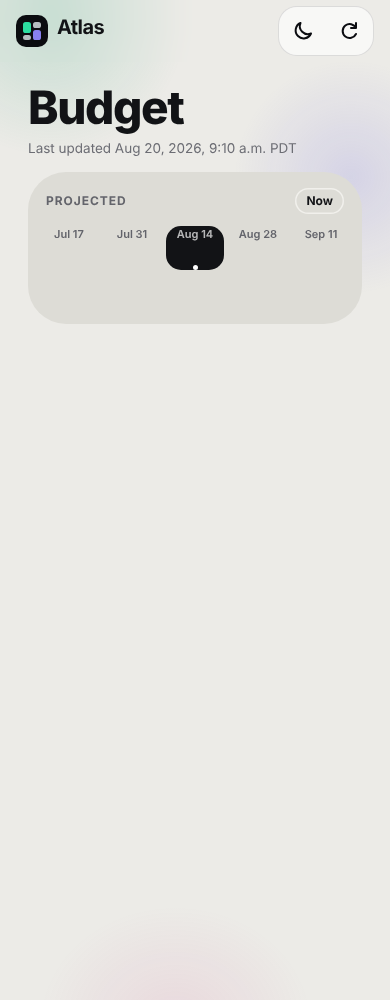
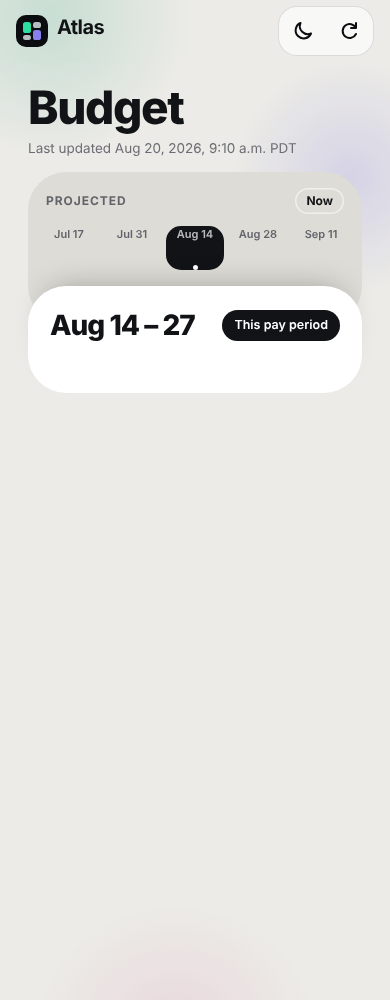
B1: contract additions (block stylesheets, period header, sheet overlay)
Per the lead's contract additions: each block owns a stylesheet
(stack-waterfall.css, stack-cards.css, stack-credit.css, stack-sheet.css,
placeholders loaded only under ?view=stack); the shell supplies the
selected period's range and when-label in the waterfall's white frame;
mount order timeline, waterfall, cards, credit in the pile, with the sheet
overlay outside it. The selected chip is re-centred once the stylesheets
have loaded.

Claude-Session: https://claude.ai/code/session_01B4JZczKoMaQZEssfxJayKS

Changed region(s): [[0.0923, 0.279, 0.9231, 0.341]]

diff --git a/public/stack/stack-shell.js b/public/stack/stack-shell.js
@@ -35,10 +35,12 @@
 
   const root = document.documentElement;
   root.classList.add('stack-view');
-  for (const href of ['/budget-stack-fonts.css', '/stack/stack.css']) {
+  // The shell's stylesheet (tokens, pile, header, timeline), then one stylesheet per block, each owned by its block.
+  for (const href of ['/budget-stack-fonts.css', '/stack/stack.css', ...ORDER.map(name => `/stack/stack-${name}.css`)]) {
     const link = document.createElement('link');
     link.rel = 'stylesheet';
     link.href = href;
+    if (href === '/stack/stack.css') link.addEventListener('load', () => centreNow());
     document.head.appendChild(link);
   }
 
@@ -90,6 +92,30 @@
       + `<div class="stack-chips" data-stack-chips>${chips}</div>`;
   }
 
+  // The selected period's range and when-label (design: "This pay period", "Last pay period", "Past", "Projected").
+  const rangeDate = new Intl.DateTimeFormat('en-CA', { month: 'short', day: 'numeric', timeZone: 'UTC' });
+  function rangeLabel(view) {
+    const ok = iso => typeof iso === 'string' && /^\d{4}-\d{2}-\d{2}$/.test(iso);
+    if (!ok(view.start)) return '';
+    const a = new Date(`${view.start}T12:00:00Z`);
+    if (!ok(view.end)) return rangeDate.format(a);
+    const b = new Date(`${view.end}T12:00:00Z`);
+    return rangeDate.format(a) + ' \u2013 ' + (a.getUTCMonth() === b.getUTCMonth() && a.getUTCFullYear() === b.getUTCFullYear()
+      ? String(b.getUTCDate()) : rangeDate.format(b));
+  }
+  function whenLabel(view, list) {
+    if (view.role === 'active') return 'This pay period';
+    const at = list.indexOf(view), now = list.findIndex(v => v.role === 'active');
+    if (view.role === 'lookback') return now > 0 && at === now - 1 ? 'Last pay period' : 'Past';
+    return 'Projected';
+  }
+  function periodHeadHtml() {
+    const list = views(), view = list.find(v => keyOf(v) === state.selectedPeriodKey);
+    if (!view) return '';
+    return `<h2 class="stack-period-range">${esc(rangeLabel(view))}</h2>`
+      + `<span class="stack-period-when" data-stack-period-when>${esc(whenLabel(view, list))}</span>`;
+  }
+
   function context() {
     return { data: state.data, plan: state.data && state.data.plan, recommendation: state.recommendation,
       selectedPeriodKey: state.selectedPeriodKey, Forecast: typeof Forecast !== 'undefined' ? Forecast : null };
@@ -104,7 +130,14 @@
     el.innerHTML = '<header class="stack-top"><h1>Budget</h1><p class="stack-updated" data-stack-updated></p></header>'
       + '<div class="stack-pile" data-stack-pile><section class="stack-block stack-tl" data-stack-block="timeline"'
       + ' aria-label="Pay periods"></section>'
-      + ORDER.map(name => `<section class="stack-block" data-stack-block="${name}"></section>`).join('') + '</div>';
+      // The waterfall sits under the shell's period header (range and when-label) in one white block; the block
+      // renders only its own content into the div. Cards and credit render into their own sections.
+      + '<section class="stack-block stack-wf-block"><header class="stack-period-head" data-stack-period-head></header>'
+      + '<div data-stack-block="waterfall"></div></section>'
+      + '<section class="stack-block stack-bare" data-stack-block="cards"></section>'
+      + '<section class="stack-block stack-bare" data-stack-block="credit"></section></div>'
+      // The sheet is an overlay, outside the pile.
+      + '<div class="stack-overlay" data-stack-block="sheet"></div>';
     (document.querySelector('.wrap') || document.body).appendChild(el);
     el.addEventListener('click', event => {
       const chip = event.target.closest('[data-stack-period]');
@@ -122,14 +155,21 @@
   }
 
   // Keep the chip row where it was across renders; centre the selected chip the first time and after a tap.
+  // Layout positions, not figures: the chip's offset in the row. Re-run once the stylesheets have loaded, since a
+  // render before then measures an unstyled row.
   let centre = true;
+  function centreNow() {
+    const row = document.querySelector('#stack-root [data-stack-chips]');
+    const chip = row && row.querySelector('[aria-pressed="true"]');
+    if (row && chip) row.scrollLeft = chip.offsetLeft - (row.clientWidth - chip.offsetWidth) / 2;
+  }
   function centerSelected(row, scrollLeft) {
     if (!row) return;
     if (scrollLeft != null) row.scrollLeft = scrollLeft;
-    const chip = row.querySelector('[aria-pressed="true"]');
-    if (!centre || !chip) return;
+    if (!centre) return;
     centre = false;
-    row.scrollLeft = chip.offsetLeft - (row.clientWidth - chip.offsetWidth) / 2;
+    centreNow();
+    if (typeof requestAnimationFrame === 'function') requestAnimationFrame(centreNow);
   }
 
   function renderAll() {
@@ -140,6 +180,7 @@
     const scrollLeft = previous ? previous.scrollLeft : null;
     timeline.innerHTML = timelineHtml();
     centerSelected(timeline.querySelector('[data-stack-chips]'), scrollLeft);
+    el.querySelector('[data-stack-period-head]').innerHTML = periodHeadHtml();
     const ctx = context();
     for (const name of ORDER) {
       const container = el.querySelector(`[data-stack-block="${name}"]`);

diff --git a/test/test-stack-shell.js b/test/test-stack-shell.js
@@ -5,7 +5,8 @@
  *   1. Without ?view=stack, stack-shell.js defines window.StackBlocks and touches nothing else: no element, class,
  *      stylesheet, App hook or listener. The four block placeholders only register a no-op.
  *   2. With ?view=stack it registers exactly one App render hook and adds the two Stack stylesheets.
- *   3. Every rule in public/stack/stack.css is scoped to html.stack-view, so the file cannot restyle the current page.
+ *   3. Every rule in public/stack/stack.css and the four block stylesheets is scoped to html.stack-view, so none can
+ *      restyle the current page.
  *   4. index.html loads the shell and then the four block files, after every current script.
  *   5. L-001: the shell prints money only from stackSummary.surplus.amount; it does no arithmetic on a figure.
  * `node test/test-stack-shell.js`
@@ -30,7 +31,7 @@ function sandbox(search) {
     location: { search }, document: search.includes('view=stack') ? {
       documentElement: { classList: { add: c => touched.push('class:' + c) } },
       head: { appendChild: el => touched.push('link:' + el.href) },
-      createElement: () => ({}), querySelector: () => null, getElementById: () => null, body: null,
+      createElement: () => ({ addEventListener: () => {} }), querySelector: () => null, getElementById: () => null, body: null,
     } : trap('document'),
     App: { register: fn => hooks.push(fn) } };
   ctx.window = ctx;
@@ -55,13 +56,15 @@ console.log('2. ?view=stack');
 {
   const { touched, hooks } = sandbox('?view=stack');
   ok(hooks.length === 1, 'exactly one App render hook is registered');
-  ok(touched.join() === 'class:stack-view,link:/budget-stack-fonts.css,link:/stack/stack.css',
-    'the page is marked and the font and Stack stylesheets are added, nothing more', touched.join());
+  ok(touched.join() === ['class:stack-view', 'link:/budget-stack-fonts.css', 'link:/stack/stack.css',
+    ...BLOCKS.map(n => `link:/stack/stack-${n}.css`)].join(),
+  'the page is marked and the font, shell and four block stylesheets are added, nothing more', touched.join());
 }
 
 console.log('3. the stylesheet is scoped');
 {
-  const css = read('public/stack/stack.css').replace(/\/\*[\s\S]*?\*\//g, '');
+  const css = ['stack', ...BLOCKS.map(n => 'stack-' + n)].map(f => read(`public/stack/${f}.css`)).join('\n')
+    .replace(/\/\*[\s\S]*?\*\//g, '');
   const selectors = [];
   const walk = text => {
     let depth = 0, start = 0;
@@ -77,7 +80,7 @@ console.log('3. the stylesheet is scoped');
   const matching = (text, open) => { let d = 0; for (let i = open; i < text.length; i++) { if (text[i] === '{') d++; else if (text[i] === '}' && --d === 0) return i; } return text.length; };
   walk(css);
   const loose = selectors.filter(s => s && !s.startsWith('html.stack-view'));
-  ok(selectors.length > 20 && loose.length === 0, `all ${selectors.length} selectors start with html.stack-view`, loose.join(' | '));
+  ok(selectors.length > 20 && loose.length === 0, `all ${selectors.length} selectors in the shell and block stylesheets start with html.stack-view`, loose.join(' | '));
 }
 
 console.log('4. index.html');

diff --git a/test/browser-stack-shell.js b/test/browser-stack-shell.js
@@ -108,6 +108,20 @@ const settle = page => page.evaluate(() => new Promise(r => requestAnimationFram
     const dates = views.map(v => new Intl.DateTimeFormat('en-CA', { month: 'short', day: 'numeric', timeZone: 'UTC' })
       .format(new Date(v.start + 'T12:00:00Z')));
     ok(view.chips.every((c, i) => c.date === dates[i]), 'each chip shows its period start date');
+    const head = await page.evaluate(() => ({ range: document.querySelector('.stack-period-range').textContent,
+      when: document.querySelector('[data-stack-period-when]').textContent }));
+    const fmt = iso => new Intl.DateTimeFormat('en-CA', { month: 'short', day: 'numeric', timeZone: 'UTC' }).format(new Date(iso + 'T12:00:00Z'));
+    const range = v => fmt(v.start) + ' \u2013 ' + (v.start.slice(0, 7) === v.end.slice(0, 7) ? String(Number(v.end.slice(8))) : fmt(v.end));
+    ok(head.range === range(active) && head.when === 'This pay period',
+      'the shell heads the selected period with its range and "This pay period"', JSON.stringify(head));
+    const sheets = await page.evaluate(() => [...document.querySelectorAll('link[rel=stylesheet]')].map(l => new URL(l.href).pathname)
+      .filter(p => p.startsWith('/stack/')));
+    ok(sheets.join() === ['/stack/stack.css', '/stack/stack-waterfall.css', '/stack/stack-cards.css', '/stack/stack-credit.css',
+      '/stack/stack-sheet.css'].join(), 'the shell and each block stylesheet are loaded under the flag', sheets.join());
+    const frame = await page.evaluate(() => ({ pile: [...document.querySelector('[data-stack-pile]').querySelectorAll('[data-stack-block]')]
+      .map(e => e.dataset.stackBlock), overlay: document.querySelector('[data-stack-block="sheet"]').closest('[data-stack-pile]') === null }));
+    ok(frame.pile.join() === 'timeline,waterfall,cards,credit' && frame.overlay,
+      'mount order: timeline, waterfall, cards, credit in the pile; the sheet outside it', JSON.stringify(frame));
     ok(views.every(v => !(v.stackSummary && v.stackSummary.surplus)) && view.chips.every(c => c.amount === ''),
       'main publishes no surplus yet, so every chip prints nothing: never $0');
 
@@ -152,6 +166,9 @@ const settle = page => page.evaluate(() => new Promise(r => requestAnimationFram
       pressed: [...document.querySelectorAll('[data-stack-period][aria-pressed="true"]')].map(c => c.dataset.stackPeriod),
       block: document.querySelector('[data-stack-block="waterfall"]').textContent }));
     const last = after.calls[after.calls.length - 1];
+    const lastView = views[views.length - 1];
+    const when = await page.evaluate(() => document.querySelector('[data-stack-period-when]').textContent);
+    ok(when === (lastView.role === 'lookback' ? 'Past' : 'Projected'), 'a future period is headed "Projected"', when);
     ok(after.pressed.join() === target && last.key === target && after.block === 'test block ' + target,
       'tapping a chip selects it and the block renders for that period', JSON.stringify(after.pressed));
     ok(last.keys === 'Forecast,data,plan,recommendation,selectedPeriodKey' && last.sameRec && last.plan && last.forecast,

diff --git a/public/stack/stack.css b/public/stack/stack.css
@@ -85,5 +85,17 @@ html.stack-view .stack-chip[aria-pressed="true"] .stack-chip-date,
 html.stack-view .stack-chip[aria-pressed="true"] .stack-chip-value.is-neg { color: inherit; }
 html.stack-view .stack-chip[aria-pressed="true"] .stack-chip-date { opacity: .7; }
 
+/* Block 2's frame: the white block that holds the shell's period header and the waterfall block's own content. */
+html.stack-view .stack-wf-block { background: var(--stack-wf); color: var(--stack-on); padding: 22px 8px 50px; }
+html.stack-view .stack-wf-block:last-child { padding-bottom: 8px; }
+html.stack-view .stack-period-head { display: flex; justify-content: space-between; align-items: center; gap: 10px; padding: 0 14px; }
+html.stack-view .stack-period-range { margin: 0; font-size: 28px; font-weight: 800; letter-spacing: -.035em; }
+html.stack-view .stack-period-when {
+  font-size: 12.5px; font-weight: 600; color: #ffffff; background: #121316; border-radius: 999px; padding: 6px 12px; white-space: nowrap;
+}
+/* Cards and credit draw their own coloured blocks; their sections are plain frames in the pile. */
+html.stack-view .stack-bare { box-shadow: none; border-radius: 0; }
+html.stack-view .stack-overlay:empty { display: none; }
+
 @media (max-width: 472px) { html.stack-view .stack-root { padding-left: 16px; padding-right: 16px; } }
 @media (prefers-reduced-motion: reduce) { html.stack-view .stack-chip { transition: none; } }

diff --git a/public/stack/stack-waterfall.css b/public/stack/stack-waterfall.css
@@ -1,0 +1,2 @@
+/* Stack Wallet block waterfall: styles owned by its block file (public/stack/stack-waterfall.js). Placeholder from B1;
+ * loaded only under ?view=stack. Keep every selector scoped to html.stack-view. */

diff --git a/public/stack/stack-credit.css b/public/stack/stack-credit.css
@@ -1,0 +1,2 @@
+/* Stack Wallet block credit: styles owned by its block file (public/stack/stack-credit.js). Placeholder from B1;
+ * loaded only under ?view=stack. Keep every selector scoped to html.stack-view. */

diff --git a/public/stack/stack-cards.css b/public/stack/stack-cards.css
@@ -1,0 +1,2 @@
+/* Stack Wallet block cards: styles owned by its block file (public/stack/stack-cards.js). Placeholder from B1;
+ * loaded only under ?view=stack. Keep every selector scoped to html.stack-view. */

diff --git a/public/stack/stack-sheet.css b/public/stack/stack-sheet.css
@@ -1,0 +1,2 @@
+/* Stack Wallet block sheet: styles owned by its block file (public/stack/stack-sheet.js). Placeholder from B1;
+ * loaded only under ?view=stack. Keep every selector scoped to html.stack-view. */
